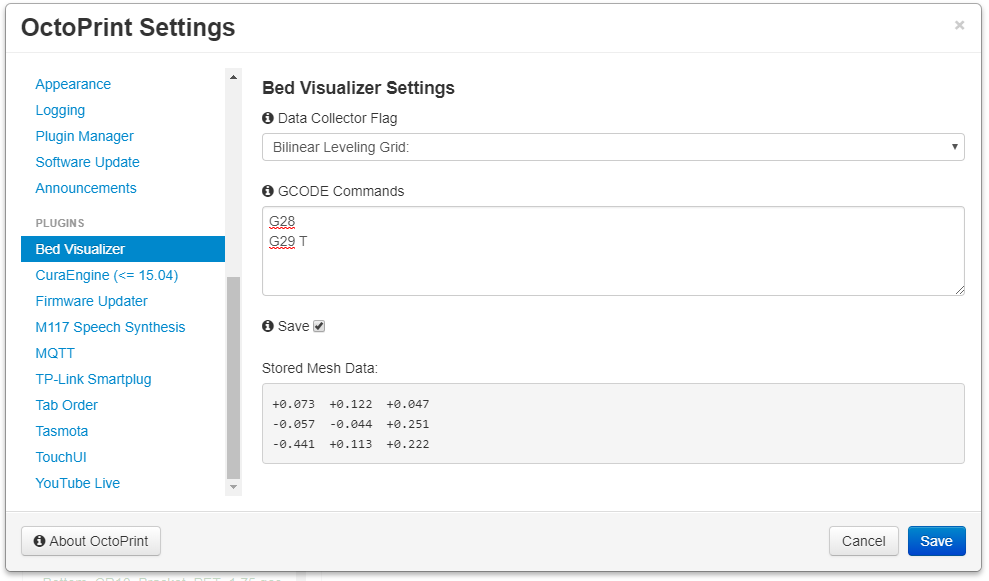
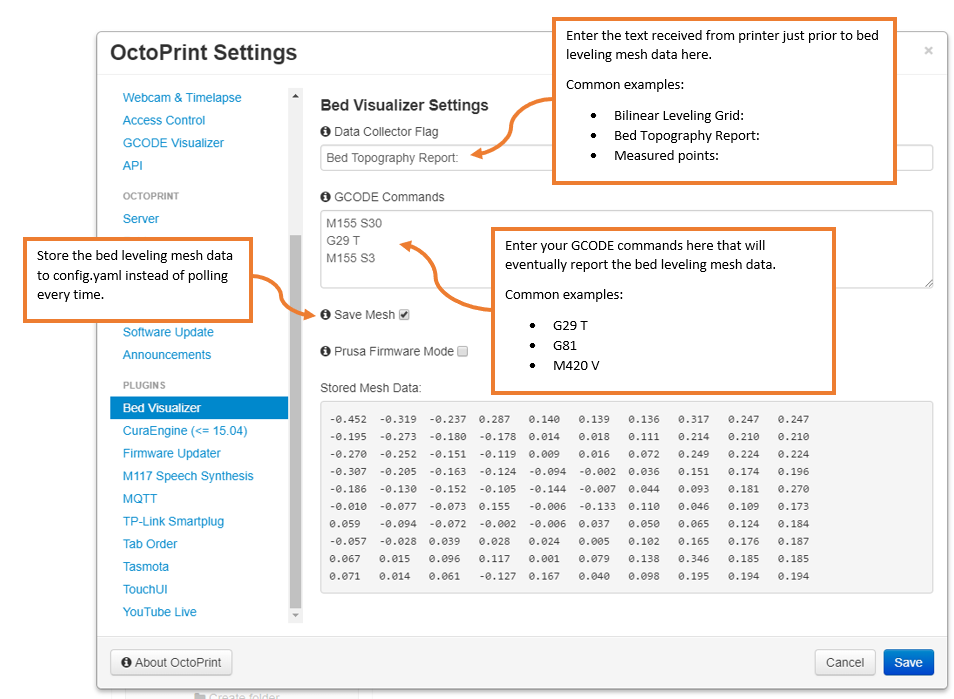
0.0.6
**Added**
  - Timestamp stored with saved mesh data.  Displays on mouse hover of info graphic on update button.
  
**Changed**
  - Screenshots updated to make settings a little clearer.
  - Visibility bindings fixed for issues related to new installs and no stored data.

diff --git a/octoprint_bedlevelvisualizer/static/js/bedlevelvisualizer.js b/octoprint_bedlevelvisualizer/static/js/bedlevelvisualizer.js
@@ -10,14 +10,14 @@ $(function () {
 		self.mesh_data = ko.observableArray([]);
 		self.save_mesh = ko.observable();
 		self.mesh_status = ko.computed(function(){
-			var return_value = 'Update Mesh Data';
-			if (self.processing()) {
+			if(self.processing()){
 				return 'Collecting mesh data.';
 			}
-			if (self.save_mesh()) {
-				return_value = 'Using saved mesh data from ' + self.settingsViewModel.settings.plugins.bedlevelvisualizer.mesh_timestamp() + '.';
+			if (self.save_mesh() && self.mesh_data().length > 0) {
+				return 'Using saved mesh data from ' + self.settingsViewModel.settings.plugins.bedlevelvisualizer.mesh_timestamp() + '.';
+			} else {
+				return 'Update mesh.'
 			}
-			return return_value;
 		});
 		
 		self.onBeforeBinding = function() {
@@ -50,43 +50,64 @@ $(function () {
 					self.settingsViewModel.saveData();
 				};
 			}
-			var data = [{
-					z: mesh_data,
-					type: 'surface'
-				}
-			];
+			
+			try {
+				var data = [{
+						z: mesh_data,
+						type: 'surface'
+					}
+				];
 
-			var layout = {
-				//title: 'Bed Leveling Mesh',
-				autosize: true,
-				margin: {
-					l: 0,
-					r: 0,
-					b: 0,
-					t: 0
-				},
-				scene: {
-					camera: {
-						eye: {
-							x: -1.25,
-							y: -1.25,
-							z: 1.25
+				var layout = {
+					//title: 'Bed Leveling Mesh',
+					autosize: true,
+					margin: {
+						l: 0,
+						r: 0,
+						b: 0,
+						t: 0
+					},
+					scene: {
+						camera: {
+							eye: {
+								x: -1.25,
+								y: -1.25,
+								z: 1.25
+							}
 						}
 					}
-				}
-			};
-			Plotly.react('bedlevelvisualizergraph', data, layout);
+				};
+				Plotly.react('bedlevelvisualizergraph', data, layout);
+			} catch(err) {
+				console.log('No data to graph, verify "Data Collector Flag" in settings then press Update button.');
+			}
 		};
 
 		self.onAfterTabChange = function (current, previous) {
 			if (current === "#tab_plugin_bedlevelvisualizer" && self.loginStateViewModel.isUser() && !self.processing()) {
-				if (!self.save_mesh() && self.controlViewModel.isOperational() && !self.controlViewModel.isPrinting()) {
-					self.updateMesh();
+				if (!self.save_mesh()) {
+					if (self.controlViewModel.isOperational() && !self.controlViewModel.isPrinting()) {
+						self.updateMesh();
+					}
 				} else {
 					self.drawMesh(self.mesh_data());
 				}
 				return;
 			}
+			
+			if (current === "#tab_plugin_bedlevelvisualizer" && self.controlViewModel.isOperational() && !self.controlViewModel.isPrinting() && self.loginStateViewModel.isUser() && !self.processing()) {
+				if (!self.save_mesh()) {
+					self.updateMesh();
+				} else {
+					if(!self.settingsViewModel.settings.plugins.bedlevelvisualizer.stored_mesh().length > 0){
+						self.updateMesh();
+					} else {
+						self.drawMesh(self.mesh_data());
+					}
+				}
+				return;
+			}
+			
 			if (previous === "#tab_plugin_bedlevelvisualizer") {
 				//Plotly.purge('bedlevelvisualizergraph');
 			}

diff --git a/octoprint_bedlevelvisualizer/__init__.py b/octoprint_bedlevelvisualizer/__init__.py
@@ -15,7 +15,7 @@ class bedlevelvisualizer(octoprint.plugin.StartupPlugin,
 	
 	##~~ SettingsPlugin
 	def get_settings_defaults(self):
-		return dict(command="G28\nG29 T1",stored_mesh=[],save_mesh=True,prusa_mode=False,mesh_timestamp="",report_flag="Bilinear Leveling Grid:",report_types=["Bed Topography Report:","Bilinear Leveling Grid:","Subdivided with CATMULL ROM Leveling Grid:","Measured points:"])
+		return dict(command="G28\nG29 T",stored_mesh=[],save_mesh=True,prusa_mode=False,mesh_timestamp="",report_flag="",report_types=["Bed Topography Report:","Bilinear Leveling Grid:","Subdivided with CATMULL ROM Leveling Grid:","Measured points:"])
 
 	##~~ StartupPlugin
 	def on_after_startup(self):

diff --git a/README.md b/README.md
@@ -4,24 +4,37 @@
 
 This plugin utilizes [Plotly](https://plot.ly/plotly-js-scientific-d3-charting-library/) js library to render a 3D surface of the bed's reported mesh on a tab within OctoPrint.
 
-**Note:** Currently only tested with a UBL report, but should work with others as long as `G29 T1` command responds like below. Also currently reuires Marlin temperature auto-reporting enabled until I can figure out how to pause OctoPrint's temperature polling.
+**Note:** If you have Marlin's Auto Temperature Reporting Feature enabled you will want to have M155 S30 and M155 S3 surrounding your G29 command, see settings screenshot, otherwise the collected data will be tainted.
 
 ```
-Send: G29 T1
+Send: G29 T
 Recv: echo:Home XYZ first
 Recv: 
-Recv: Bed Topography Report for CSV:
+Recv: Bed Topography Report:
 Recv: 
-Recv: 0.256,0.170,0.140,0.535,0.183,0.159,0.054,0.197,0.105,0.105
-Recv: 0.488,0.277,0.174,-0.049,0.125,0.020,0.027,0.070,-0.006,-0.006
-Recv: 0.479,0.197,0.220,0.062,0.116,0.062,-0.053,0.169,0.038,0.038
-Recv: 0.315,0.306,0.126,0.079,-0.096,-0.008,0.014,-0.105,0.011,0.127
-Recv: 0.444,0.362,0.162,0.084,-0.160,-0.100,-0.074,-0.079,0.038,0.154
-Recv: 0.506,0.293,0.195,0.274,0.093,-0.040,0.040,-0.083,-0.131,-0.131
-Recv: 0.583,0.265,0.174,0.517,0.042,-0.021,-0.083,-0.094,-0.130,-0.130
-Recv: 0.425,0.267,0.270,0.370,0.073,-0.125,-0.075,-0.057,-0.056,-0.056
-Recv: 0.499,0.356,0.280,0.266,0.056,0.053,-0.021,0.120,-0.171,-0.171
-Recv: 0.438,0.265,0.188,-0.154,0.141,0.005,-0.041,-0.117,-0.135,-0.135
+Recv: (0,9)                                                                   (9,9)
+Recv: (30,270)                                                                (270,270)
+Recv:  -0.452   -0.319   -0.237    0.287    0.140    0.139    0.136    0.317    0.247    0.247
+Recv: 
+Recv:  -0.195   -0.273   -0.180   -0.178    0.014    0.018    0.111    0.214    0.210    0.210
+Recv: 
+Recv:  -0.270   -0.252   -0.151   -0.119    0.009    0.016    0.072    0.249    0.224    0.224
+Recv: 
+Recv:  -0.307   -0.205   -0.163   -0.124   -0.094   -0.002    0.036    0.151    0.174    0.196
+Recv: 
+Recv:  -0.186   -0.130   -0.152   -0.105   -0.144   -0.007    0.044    0.093    0.181    0.270
+Recv: 
+Recv:  -0.010   -0.077   -0.073    0.155   -0.006   -0.133    0.110    0.046    0.109    0.173
+Recv: 
+Recv:   0.059   -0.094   -0.072   -0.002   -0.006    0.037    0.050    0.065    0.124    0.184
+Recv: 
+Recv:  -0.057   -0.028    0.039    0.028    0.024    0.005    0.102    0.165    0.176    0.187
+Recv: 
+Recv:   0.067    0.015    0.096    0.117    0.001    0.079    0.138    0.346    0.185    0.185
+Recv: 
+Recv: [ 0.071]   0.014    0.061   -0.127    0.167    0.040    0.098    0.195    0.194    0.194
+Recv: (30,30)                                                                    (270,30)
+Recv: (0,0)                                                                     (9,0)
 Recv: ok P15 B3
 ```
 
@@ -42,6 +55,10 @@ or manually using this URL:
 
 **Added**
   - Timestamp stored with saved mesh data.  Displays on mouse hover of info graphic on update button.
+  
+**Changed**
+  - Screenshots updated to make settings a little clearer.
+  - Visibility bindings fixed for issues related to new installs and no stored data.
 
 **[0.0.5]** (04/18/2018)
 
